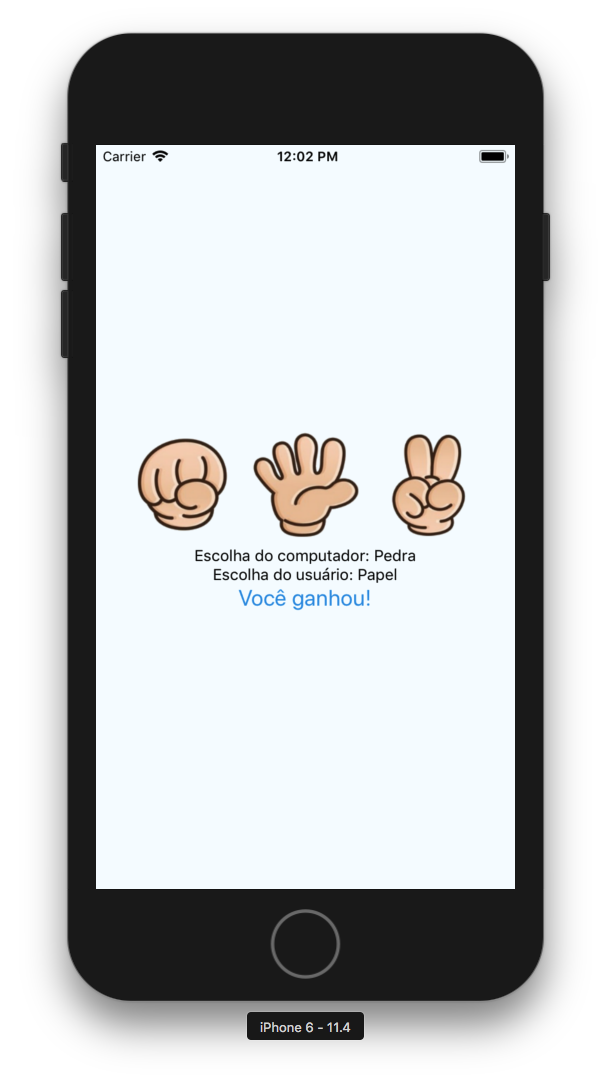
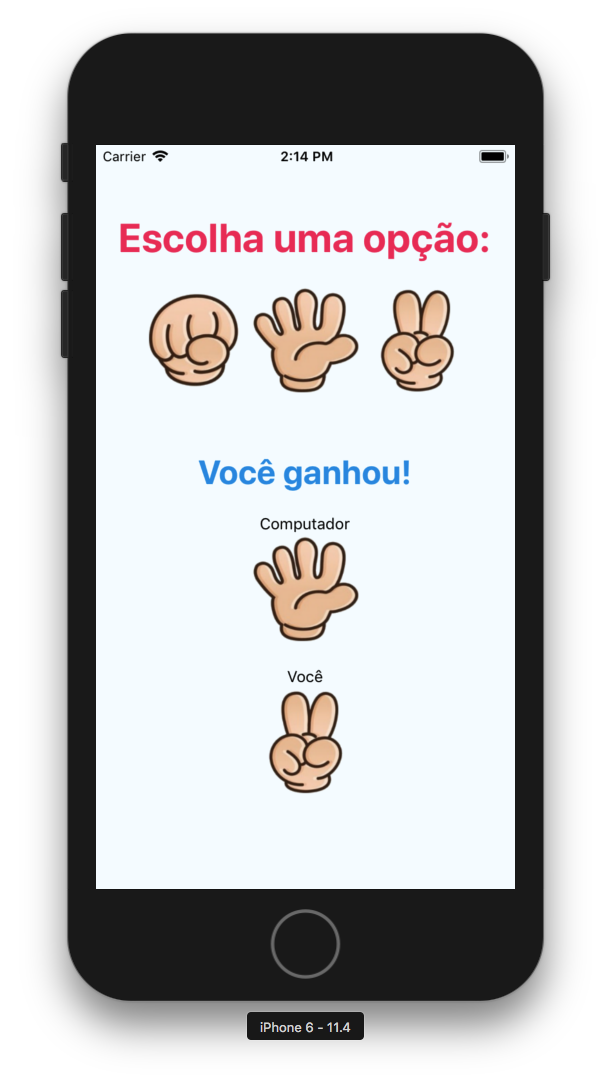
Ajuste de layout e personalização do resultado

Changed region(s): [[0.2177, 0.3965, 0.7774, 0.732], [0.1866, 0.183, 0.8085, 0.366], [0.4664, 0.122, 0.5597, 0.1525]]

diff --git a/App.js b/App.js
@@ -10,6 +10,48 @@ import React, {Component} from 'react';
 import { StyleSheet, Text, View, TouchableOpacity , Image } from 'react-native';
 
 type Props = {};
+class Icone extends Component<Props> {
+  render(){
+    if (this.props.escolha == "Pedra") {
+      return(
+        <View style={styles.jogador}>
+          <Text>{this.props.jogador}</Text>
+          <Image
+            source={require('./images/pedra.png')}
+             style={styles.imagem}
+          />
+        </View>
+      );
+    }
+    else if (this.props.escolha == "Papel") {
+      return(
+        <View style={styles.jogador}>
+          <Text>{this.props.jogador}</Text>
+          <Image
+            source={require('./images/papel.png')}
+             style={styles.imagem}
+          />
+      </View>
+      );
+
+    }
+    else if (this.props.escolha == "Tesoura") {
+      return(
+        <View style={styles.jogador}>
+          <Text>{this.props.jogador}</Text>
+          <Image
+            source={require('./images/tesoura.png')}
+             style={styles.imagem}
+          />
+        </View>
+      );
+
+    }
+    else{
+      return false;
+    }
+  };
+};
 export default class App extends Component<Props> {
   constructor(props){
     super(props);
@@ -30,7 +72,7 @@ export default class App extends Component<Props> {
     let resultado = '';
 
     if (escolhaComputador == escolhaUsuario) {
-        resultado = 'Empate';
+        resultado = 'Empatou!';
     }
     else if (escolhaComputador == 'Pedra' && escolhaUsuario == 'Papel') {
         resultado = 'Você ganhou!';
@@ -61,36 +103,36 @@ export default class App extends Component<Props> {
   render() {
     return (
       <View style={styles.container}>
-      <View style={styles.botoes}>
-          <TouchableOpacity
-            onPress={ () => {this.jokenpo('Pedra')}}>
-            <Image
-              source={require('./images/pedra.png')}
-               style={styles.imagem}
-            />
-          </TouchableOpacity>
-          <TouchableOpacity
-            onPress={ () => {this.jokenpo('Papel')}}>
-            <Image
-              source={require('./images/papel.png')}
-               style={styles.imagem}
-            />
-          </TouchableOpacity>
-          <TouchableOpacity
-            onPress={ () => {this.jokenpo('Tesoura')}}>
-            <Image
-              source={require('./images/tesoura.png')}
-               style={styles.imagem}
-            />
-          </TouchableOpacity>
-      </View>
-
-        <View style={styles.resultados}>
-          <Text style={styles.escolha}>Escolha do computador: {this.state.escolhaComputador}</Text>
-          <Text style={styles.escolha}>Escolha do usuário: {this.state.escolhaUsuario}</Text>
-          <Text style={styles.resultado}>{this.state.resultado}</Text>
+      <Text style={styles.titulo}>Escolha uma opção:</Text>
+          <View style={styles.botoes}>
+              <TouchableOpacity
+                onPress={ () => {this.jokenpo('Pedra')}}>
+                <Image
+                  source={require('./images/pedra.png')}
+                   style={styles.imagem}
+                />
+              </TouchableOpacity>
+              <TouchableOpacity
+                onPress={ () => {this.jokenpo('Papel')}}>
+                <Image
+                  source={require('./images/papel.png')}
+                   style={styles.imagem}
+                />
+              </TouchableOpacity>
+              <TouchableOpacity
+                onPress={ () => {this.jokenpo('Tesoura')}}>
+                <Image
+                  source={require('./images/tesoura.png')}
+                   style={styles.imagem}
+                />
+              </TouchableOpacity>
           </View>
-    </View>
+        <View style={styles.resultados}>
+        <Text style={styles.resultado}>{this.state.resultado}</Text>
+          <Icone escolha={this.state.escolhaComputador} jogador="Computador"></Icone>
+          <Icone escolha={this.state.escolhaUsuario} jogador="Você"></Icone>
+        </View>
+      </View>
     );
   }
 }
@@ -105,21 +147,40 @@ const styles = StyleSheet.create({
   botoes: {
     flexDirection: 'row',
     alignItems: 'center',
-    justifyContent: 'center',
+    justifyContent: 'space-between',
     backgroundColor: '#F5FCFF',
+    marginBottom: 20,
   },
   imagem:{
     width: 100,
     height: 100,
-    margin: 5
+  },
+  escolhaUsuario:{
+    color: '#9AB628',
+    fontSize: 20,
+  },
+  escolhaComputador:{
+    color: "#AC3745",
+    fontSize: 20,
+  },
+  jogador: {
+    alignItems: 'center',
+    marginBottom: 20,
   },
   resultados: {
-    justifyContent: 'center',
+    marginTop: 30,
     alignItems: 'center',
-    margin: 0
   },
   resultado:{
-    fontSize: 20,
-    color: '#2E90E2'
+    marginBottom: 20,
+    fontSize: 30,
+    color: '#2E90E2',
+    fontWeight: 'bold'
+  },
+  titulo:{
+    marginBottom: 20,
+    fontSize: 36,
+    color: '#EA325F',
+    fontWeight: 'bold'
   },
 });

diff --git a/README.md b/README.md
@@ -1,3 +1,5 @@
 # Jokenpo
 
+<img src="https://github.com/tiagosantos/jokenpo/blob/master/images/home.png">
+
 <img src="https://github.com/tiagosantos/jokenpo/blob/master/images/screenshot.png">
